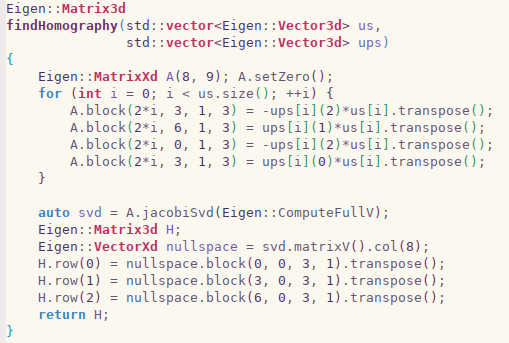
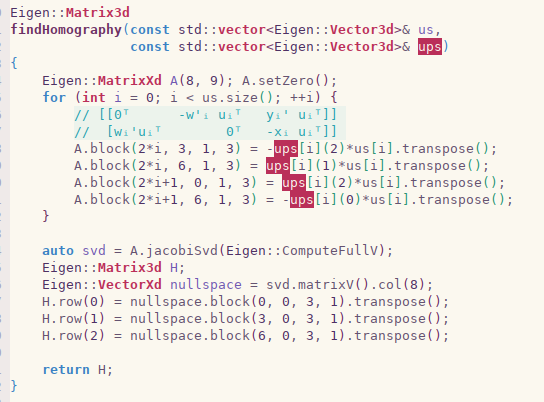
apply homography code

diff --git a/docs/slides/03-25-DLT-algo/code/homography.cpp b/docs/slides/03-25-DLT-algo/code/homography.cpp
@@ -153,6 +153,8 @@ int main(int argc, char** argv) {
         std::cout << "u_" << i << " = " << us[i] << "\n";
         std::cout << "u'_" << i << " = " << ups[i] << "\n";
     }
+    // Deliberately swapped ups and us because conversion from desired image pts 
+    // to current image pts leads to a denser image.
     Eigen::Matrix3d H = findHomography(ups, us);
     std::cout << " H: " << H << "\n";
     testHomographyFit(us, ups, H);

diff --git a/docs/schedule.md b/docs/schedule.md
@@ -33,7 +33,7 @@ layout: page
 | Fri, Mar 18, | 9    | Spring break                                                                                                                                                                                                                                                                                                                                                                                                                                 | Spring break                                                                                                                                               | Spring break                                                                                                                                                                                                      |                                                                                                                                                                                                                                                                        |
 | Mon, Mar 21, | 10   | [Slides]({{site.baseurl}}/slides/03-21-svd-appl-DLT-algo/main.pdf.pdf), [Video](https://drive.google.com/file/d/1PEdgHCf6Ud0WYMVtCRlsjfctDcnBm8E9/view?usp=sharing)                                                                                                                                                                                                                                                                          |                                                                                                                                                            | [Birds Eye View]({{site.baseurl}}/labnotes/03-21/birds-eye-view)                                                                                                                                                  |                                                                                                                                                                                                                                                                        |
 | Wed, Mar 23, | 10   | [Slides]({{site.baseurl}}/slides/03-23-DLT-algo-harris-corners/main.pdf.pdf), [Video](https://drive.google.com/file/d/17Cr0rMr567gfRNrrj9ri9vtsFaNLqW7t/view?usp=sharing)                                                                                                                                                                                                                                                                    | [HW5 due]({{site.baseurl}}/hw/hw5/hw5probs.pdf)                                                                                                            |                                                                                                                                                                                                                   |                                                                                                                                                                                                                                                                        |
-| Fri, Mar 25, | 10   | [Slides]{{site.baseurl}}/slides/03-25-DLT/main.pdf.pdf)                                                                                                                                                                                                                                                                                                                                                                  |                                                                                                                                                            |                                                                                                                                                                                                                   |                                                                                                                                                                                                                                                                        |
+| Fri, Mar 25, | 10   | [Slides]{{site.baseurl}}/slides/03-25-DLT/main.pdf.pdf), [Video](), [code]()                                                                                                                                                                                                                                                                                                                                             |                                                                                                                                                            |                                                                                                                                                                                                                   |                                                                                                                                                                                                                                                                        |
 | Mon, Mar 28, | 11   |                                                                                                                                                                                                                                                                                                                                                                                                                                              |                                                                                                                                                            |                                                                                                                                                                                                                   |                                                                                                                                                                                                                                                                        |
 | Wed, Mar 30, | 11   |                                                                                                                                                                                                                                                                                                                                                                                                                                              |                                                                                                                                                            |                                                                                                                                                                                                                   |                                                                                                                                                                                                                                                                        |
 | Fri, Apr 1,  | 11   | Mid term 2                                                                                                                                                                                                                                                                                                                                                                                                                                   | HW7                                                                                                                                                        | Planning                                                                                                                                                                                                          |                                                                                                                                                                                                                                                                        |
